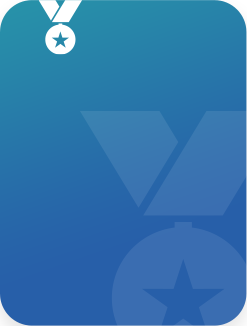
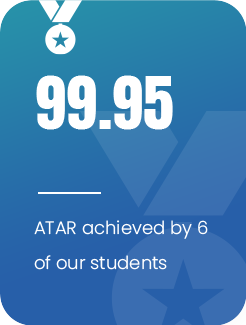
feat: update page content，optimise responsive，add faq

diff --git a/src/app/join_us/page.js b/src/app/join_us/page.js
@@ -22,6 +22,7 @@ import {
   SelectItem,
 } from "@/components/ui/select";
 import { Checkbox } from "@/components/ui/checkbox";
+import FAQ from "@/components/FAQ";
 
 const content = {
   en: {
@@ -912,7 +913,15 @@ export default function JoinUsPage() {
                             field.type === "select-multiple" ? "col-span-2" : ""
                           }
                         >
-                          <div className="space-y-2">{renderField(field)}</div>
+                          <div className="space-y-2">
+                            <Label>
+                              {field.label}
+                              {field.required && (
+                                <span className="text-red-500"> *</span>
+                              )}
+                            </Label>
+                            {renderField(field)}
+                          </div>
                         </div>
                       ))}
 
@@ -933,6 +942,12 @@ export default function JoinUsPage() {
                             key={field.name}
                             className="col-span-1 md:col-span-2 space-y-2"
                           >
+                            <Label>
+                              {field.label}
+                              {field.required && (
+                                <span className="text-red-500"> *</span>
+                              )}
+                            </Label>
                             {renderField(field)}
                           </div>
                         ))}
@@ -942,6 +957,13 @@ export default function JoinUsPage() {
                   <div className="space-y-4">
                     {section.fields.map((field) => (
                       <div key={field.name} className="space-y-2">
+                        <Label>
+                          {field.label}
+                          {field.required && (
+                            <span className="text-red-500"> *</span>
+                          )}
+                        </Label>
+
                         {renderField(field)}
                       </div>
                     ))}
@@ -960,7 +982,9 @@ export default function JoinUsPage() {
             </div>
           </form>
         </div>
+        
       </section>
+      <FAQ /> {/* FAQ 组件放在这里 */}
     </div>
   );
 }

diff --git a/src/app/my_austin/page.js b/src/app/my_austin/page.js
@@ -19,13 +19,13 @@ const i18nContent = {
   myAustin: {
     en: {
       hero: {
-        title: "Austin Education LMS System",
-        desc: "Experience our state-of-the-art Learning Management System designed to empower students and educators.",
+        title: "Austin Education Homework System",
+        desc: "At Austin Education, we go beyond high-quality courses by offering a powerful, intelligent, and efficient homework system designed to support students at every step of their learning journey.",
         button: "Access My Austin",
       },
       slider: {
-        title: 'Platform Features',
-        desc: 'Discover key functionalities',
+        title: 'Diverse Practice Types, Aligned with Learning Stages',
+        desc: 'Austin Education’s homework system offers a variety of question types, including multiple-choice, fill-in-the-blank, short-answer, and writing tasks, tailored to different learning stages to help students improve comprehensively.',
         items: [
           { image: 'https://placehold.co/600x400', title: 'Dashboard' },
           { image: 'https://placehold.co/600x400', title: 'Analytics' },
@@ -49,7 +49,7 @@ const i18nContent = {
             desc: `Detailed description for advanced feature ${i + 1}`,
           })),
         centered: {
-          title: "Core Platform",
+          title: "Structured Course Planning for Clear Learning Progress",
           desc: "Centralized learning management interface",
         },
       },
@@ -60,9 +60,9 @@ const i18nContent = {
     },
     zh: {
       hero: {
-        title: "奥斯汀教育管理系统",
-        desc: "体验我们专为学生和教师设计的先进学习管理系统。",
-        button: "进入我的奥斯汀",
+        title: "Austin Education 作业系统",
+        desc: "在 Austin Education，我们不仅提供优质的课程，更打造了一套功能强大、智能高效的作业系统。帮助学生提升学习效率，精准攻克难题。",
+        button: "进入作业系统",
       },
       slider: {
         title: '平台功能',

diff --git a/src/app/page.js b/src/app/page.js
@@ -41,44 +41,47 @@ export default function HomePage() {
   return (
     <div className="flex flex-col items-center">
       {/* Hero 区域 */}
-      <section className="py-12 px-6 text-center">
-        <div className="container mx-auto">
+      <section className="w-full py-12 px-[clamp(1rem,3vw,3rem)]">
+        <div className="w-full mx-auto">
           <Hero />
         </div>
       </section>
 
       {/* Find a Course */}
-      <section className=" bg-primary text-white py-6 px-4 rounded-4xl">
-        <div className="container mx-auto">
+      <section className=" bg-primary text-white py-6 rounded-4xl w-full px-[clamp(1rem,3vw,3rem)]">
+        <div className="w-full px-4 mx-auto">
           <FindCourse />
         </div>
       </section>
 
       {/* Why Choose Austin: 简化示例 */}
-      <section className="py-12 px-6 text-center">
+      <section className="w-full py-12 px-[clamp(1rem,3vw,3rem)]">
+        <div className="w-full mx-auto">
         <Features />
+        </div>
       </section>
 
       {/* Admission Service Process */}
-      <section className="w-full py-12 px-6 ">
-        <div className="max-w-5xl mx-auto">
+      <section className="w-full py-12 px-[clamp(1rem,3vw,3rem)]">
+        <div className="w-full mx-auto">
           <AdmissionProcess />
         </div>
       </section>
+      
 
       {/* Testimonials */}
       <section className="w-full py-12 px-6 ">
         <h2 className="text-3xl sm:text-4xl md:text-5xl font-bold text-center mb-8">
           {t.testimonialTitle}
         </h2>
-        <div className="max-w-5xl mx-auto">
+        <div className="w-full px-4">
           <Testimonials />
         </div>
       </section>
 
       {/* FAQ: 如果需要放置，可以在此添加相应内容 */}
-      <section className="w-full py-12 px-6 text-center">
-        <div className="max-w-4xl mx-auto">
+      <section className="w-full py-12 px-[clamp(1rem,3vw,3rem)]">
+        <div className="w-full mx-auto">
           <FAQ />
         </div>
       </section>

diff --git a/src/components/Features.js b/src/components/Features.js
@@ -67,8 +67,8 @@ export default function Features() {
                   className="object-contain drop-shadow-lg"
                 />
                 {/* 文字内容 */}
-                <div className="absolute inset-0 flex flex-col items-center justify-center p-4">
-                  <div className="text-2xl sm:text-3xl lg:text-4xl 2xl:5xl font-bold mb-2 mt-4 md:mt-6 text-white">
+                {/* <div className="absolute inset-0 flex flex-col items-center justify-center p-4 xl:p-2">
+                  <div className="text-2xl sm:text-3xl lg:text-4xl xl:text-6xl font-bold mb-2 mt-4 md:mt-6 2xl:mt-0 text-white">
                     {stat.num}
                   </div>
                   <div className="h-[2px] w-16 bg-white mb-4 opacity-100" />
@@ -76,17 +76,18 @@ export default function Features() {
                     {stat.text.map((line, j) => (
                       <div
                         key={j}
-                        className="text-[10px] sm:text-[12px] font-medium text-white"
+                        className="text-[10px] sm:text-[12px] xl:text-lg font-medium text-white"
                       >
                         {line}
                       </div>
                     ))}
                   </div>
-                </div>
+                </div> */}
               </div>
             </div>
           ))}
         </div>
+        
 
         {/* 右侧文字区 */}
         <div className="space-y-6 mx-auto">

diff --git a/src/app/globals.css b/src/app/globals.css
@@ -12,10 +12,10 @@
   --breakpoint-3xl: 120rem;
   --color-primary: #285ea9; /* 主色调：深蓝 (示例) */
   --color-primary-foreground: #f1f5f9;
-  --color-secondary: #4a90e2; /* 次要色调：浅蓝 (示例) */
-  --color-secondary-foreground: #f1f5f9;
-  --color-accent: #e67e22; /* 强调色：橘黄 (示例) */
-  --color-accent-foreground: #848485;
+  --color-secondary: #00cee8; /* 次要色调：浅蓝 (示例) */
+  --color-secondary-foreground: #797979;
+  --color-accent: #c12731; /* 强调色：橘黄 (示例) */
+  --color-accent-foreground: #f1f5f9;
   --color-success: #10b981; /* 成功色：绿色 (示例) */
   --color-success-foreground: #f1f5f9;
   --color-warning: #f59e0b; /* 警告色：黄色 (示例) */
@@ -36,8 +36,8 @@
 
 :root {
   --radius: 0.625rem;
-  --background: oklch(96.29% 0 243.93);
-  --foreground: oklch(0.129 0.042 264.695);
+  --background: #f7f7f7;
+  --foreground: #353535;
   --card: oklch(96.29% 0 243.93);
   --card-foreground: oklch(0.129 0.042 264.695);
   --popover: oklch(96.29% 0 243.93);
@@ -130,3 +130,19 @@
 }
 
 
+/* 确保图片容器保持比例 */
+.aspect-ratio-box {
+  position: relative;
+  width: 100%;
+  padding-top: 132%; /* 264/200*100% */
+}
+
+/* 图片填充 */
+.image-fill {
+  position: absolute;
+  top: 0;
+  left: 0;
+  width: 100%;
+  height: 100%;
+  object-fit: contain;
+}

diff --git a/src/components/NavBar.js b/src/components/NavBar.js
@@ -107,7 +107,7 @@ export default function Header() {
           isScrolled ? "-translate-y-full" : "translate-y-0"
         }`}
       >
-        <div className="w-[80%] mx-auto">
+        <div className="w-[95%] max-w-screen-2xl mx-auto">
           <div className="container mx-auto flex h-16 items-center justify-between px-4">
             {/* 左侧 Logo */}
             <Link href="/" className="flex items-center gap-2">
@@ -134,7 +134,7 @@ export default function Header() {
           isScrolled ? "top-0" : "top-16"
         } transition-all duration-300  z-40`}
       >
-        <div className="w-[80%] mx-auto bg-white shadow-xl">
+        <div className="w-[95%] max-w-screen-2xl mx-auto bg-white shadow-xl">
           {/* 移动端菜单按钮和小屏菜单 */}
           {/* 小屏：菜单按钮和折叠菜单容器 */}
           <div className="md:hidden relative">

diff --git a/src/components/AdmissionProcess.js b/src/components/AdmissionProcess.js
@@ -233,9 +233,9 @@ export default function AdmissionProcess() {
   // 根据 partIndex 获取颜色配置
   const getColorConfig = (partIndex) => {
     const colors = [
-      { dot: "bg-blue-500", border: "border-blue-500" },
-      { dot: "bg-red-500", border: "border-red-500" },
-      { dot: "bg-orange-500", border: "border-orange-500" },
+      { dot: "bg-[#4664aa]", border: "border-[#4664aa]" },
+      { dot: "bg-[#c12731]", border: "border-[#c12731]" },// red
+      { dot: "bg-[#dfb67e]", border: "border-[#dfb67e]" },
     ];
     return colors[partIndex % 3];
   };

diff --git a/src/app/layout.js b/src/app/layout.js
@@ -21,8 +21,8 @@ export default function RootLayout({ children }) {
       <body className="bg-background text-gray-900">
         <LangContext.Provider value={{ lang, setLang }}>
           <NavBar />
-          <main className="flex-1 mt-32 md:mt-40 w-[80%] mx-auto">
-            <div className="container mx-auto px-4">{children}</div>
+          <main className="flex-1 mt-32 md:mt-40 mx-auto w-[95%] max-w-screen-2xl px-4" >
+            <div className="w-full px-4">{children}</div>
           </main>
           <Toaster />
           <Footer />

diff --git a/src/components/FindCourse.js b/src/components/FindCourse.js
@@ -42,8 +42,7 @@ export default function FindCourse() {
   };
 
   return (
-    // 最外层容器，撑满页面可用宽度
-    <div className="w-full px-4 py-2">
+    <div className="px-4 py-2">
       {/* 使用grid布局，小屏幕1列，中屏幕5列 */}
       <div className="grid grid-cols-1 md:grid-cols-5 gap-4 items-center">
         {/* 1. Label */}
